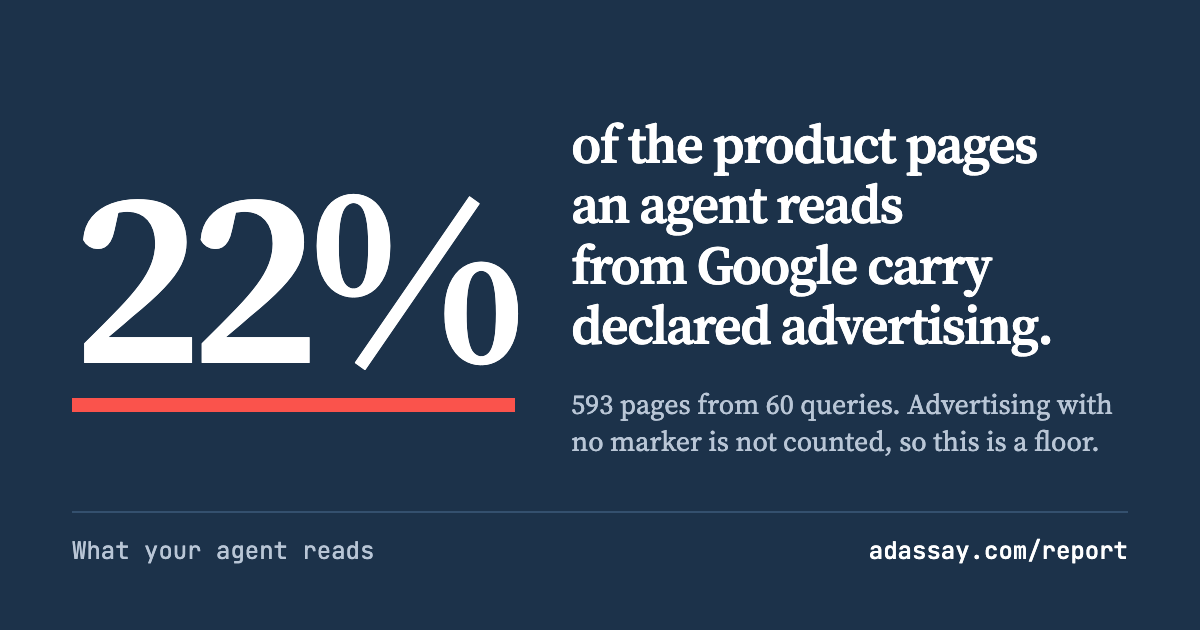
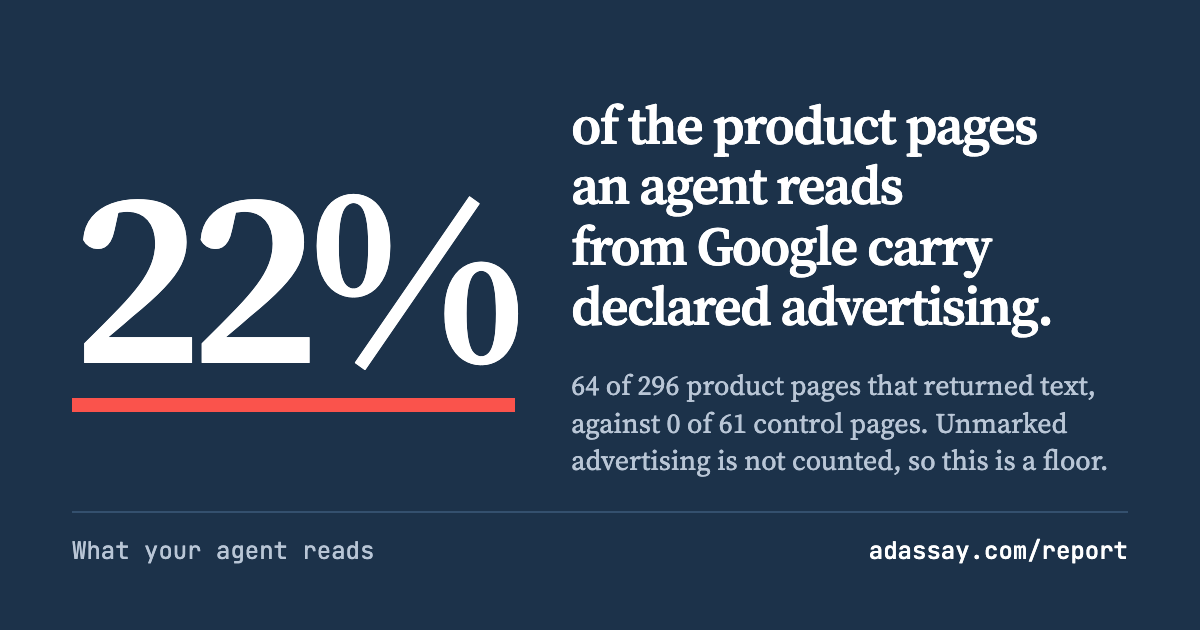
web: the report card names the base of its 22%
Beside "593 pages from 60 queries" the 22% read as a share of all 593.
It is 64 of the 296 product pages that returned text, against 0 of 61
control pages, and the card and og:description now say so.

Changed region(s): [[0.4625, 0.1508, 0.8942, 0.573], [0.4625, 0.573, 0.925, 0.754]]

diff --git a/internal/web/site/report.html b/internal/web/site/report.html
@@ -10,7 +10,7 @@
 <meta property="og:site_name" content="adassay">
 <meta property="og:url" content="https://adassay.com/report">
 <meta property="og:title" content="22% of the product pages an agent reads carry declared advertising">
-<meta property="og:description" content="593 pages from 60 Google queries, read the way an agent reads them. Data and scripts to rerun it.">
+<meta property="og:description" content="64 of 296 product pages that returned text, against 0 of 61 control pages. 593 Google results read the way an agent reads them, with data and scripts to rerun it.">
 <meta property="og:image" content="https://adassay.com/og-report.png">
 <meta property="og:image:width" content="1200">
 <meta property="og:image:height" content="630">
